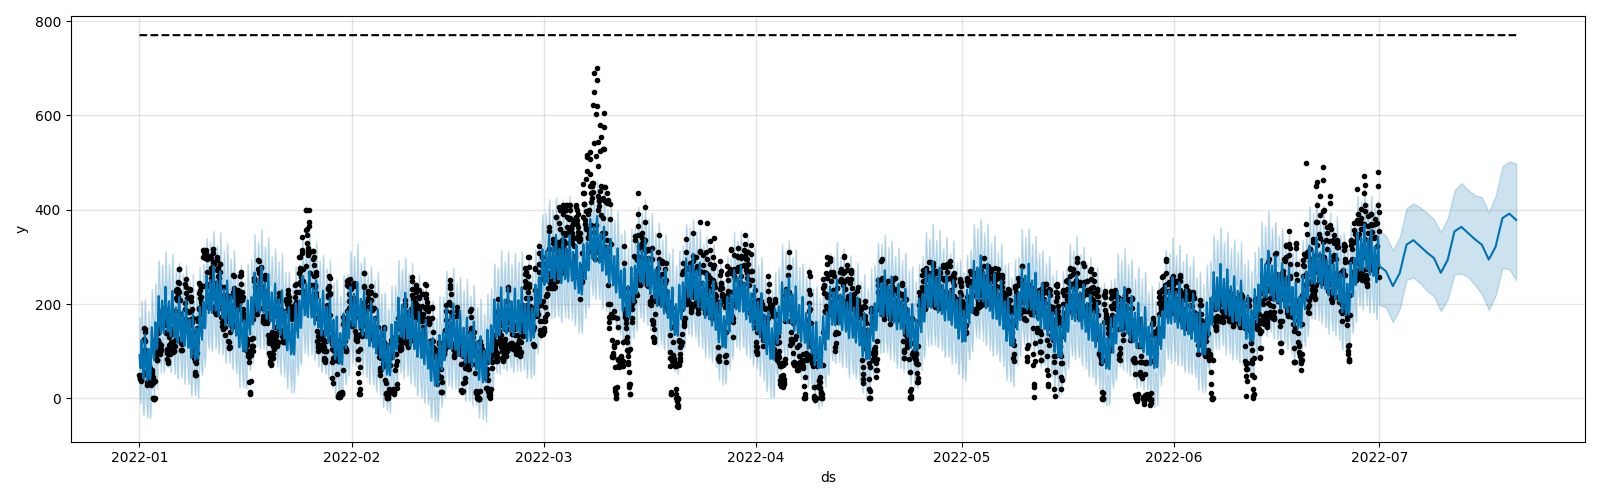
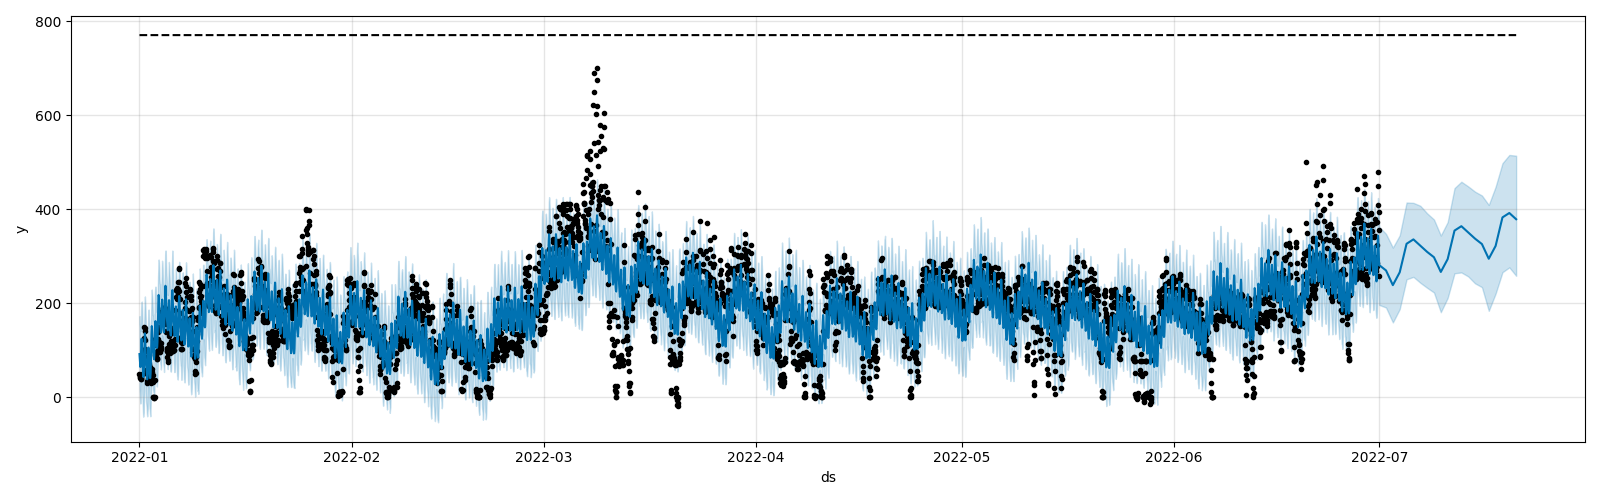
multi exper setup: hourly/daily

diff --git a/forecasting.py b/forecasting.py
@@ -8,7 +8,6 @@ import multiprocessing
 # optimize Prophet settings
 n_cores = multiprocessing.cpu_count()
 os.environ["STAN_NUM_THREADS"] = str(n_cores)
-print('CPU cores:', n_cores)
 
 import numpy as np
 import pandas as pd
@@ -21,8 +20,6 @@ from sklearn.metrics import mean_absolute_error, mean_squared_error
 # compatibility
 import prophet
 import sys
-
-
 
 
 # EDA
@@ -45,10 +42,9 @@ df_clean.ds = df_clean.ds.apply(lambda t: t[:16])
 df_clean.ds = pd.to_datetime(df_clean.ds, format= '%d.%m.%Y %H:%M') # NOTE still in CET not UTC, irrelevant for model for now
 print(df_clean.head())
 
-
 # dataset statistics (keep stats for model configuration)
 train_stats_df = df_clean.describe()
-print(train_stats_df.head())
+print(train_stats_df)
 
 # plot raw price data
 ax1 = df_clean.plot(x='ds', y='y', kind='line', figsize=(16, 5))
@@ -59,7 +55,7 @@ fig1.savefig('./plots/1_raw_prices.png')
 # ------------------------------------------------------------------
 # Validate fundamental assumptions about the dataset
 
-#### investigate varying amount of datapoints over time
+## investigate varying amount of datapoints over time
 dp_density_sr = df_clean.set_index('ds').resample('1d').count()
 
 # plot histogram of hourly (hence 24) data points per day
@@ -78,8 +74,7 @@ missing_df = df_clean.set_index('ds')\
                       .asfreq()\
                       .fillna(np.nan)
 # list missing time slot
-# missing_df[missing_df['y'].isnull()]
-assert missing_df[missing_df['y'].isnull()].empty, 'There are still data gaps in the data'
+print('Missing time slots:', missing_df[missing_df['y'].isnull()].shape[0])
 
 # interpolation missing data point from previous and next neighbors
 dense_df = df_clean.interpolate()
@@ -102,31 +97,30 @@ fig4.savefig('./plots/4_histogram_hours_per_day.png')
 # create seasonal base model
 # set prophet fit 'cap' to 100% of maximum historic price in training dataset
 df_resampled = dense_df.assign(cap=train_stats_df.loc['max', 'y'])
+df_resampled.to_csv('./df_resampled.csv')
 
+# fit model
 m = Prophet()       # mcmc_samples=300  -> NOTE different sampling strategy could increase the result quality, but at the cost of massive runtime complexity surge
 m.fit(df_resampled)
 
-df_resampled.to_csv('./df_resampled.csv')
-
-# num future intervals & max capability +10% (to consider eventual predictions beyond the training data limits up to a restricted level)
+# config prediction
+# num future intervals
 future = m.make_future_dataframe(periods=20)
+# max capability +10% (to consider eventual predictions beyond the training data limits up to a restricted level)
 future['cap'] = train_stats_df.loc['max', 'y'] * 1.1
 
-# prediction past the training dataset (no data validation, but looks logical reasonable as a base model)
+# predict
 fcst = m.predict(future)
+fcst.to_csv('./fcst.csv')
+
+# plot prediction results
 ax5 = fig = m.plot(fcst, figsize=(16, 5))
 fig5 = ax5.get_figure()
 fig5.savefig('./plots/5_predictions.png')
 
-fcst.to_csv('./fcst.csv')
-
-
-# cross validation on timeseries dataset
-df_cv = cross_validation(m, initial='7 days', period='2 hours', horizon='6 hours')              # TODO this shold be 
+##### cross validation
+df_cv = cross_validation(m, initial='120 days', period='24 hours', horizon='24 hours') 
 print(df_cv)
-# NOTE horizon should be 1 hour, but due to lack of computational power, its reduced to half the granularity
-
-
 
 # plot predictions (yhat) over true data (y)
 ax6 = df_cv.plot(x='ds', y=['y', 'yhat'], kind='line', figsize=(16, 6))
@@ -139,8 +133,6 @@ fig6.savefig('./plots/6_cross_validation.png')
 # MAE
 mae = mean_absolute_error(df_cv['y'], df_cv['yhat'])
 print(f"MAE: {mae:.2f}")
-
 # RMSE
 rmse = np.sqrt(mean_squared_error(df_cv['y'], df_cv['yhat']))
 print(f"RMSE: {rmse:.2f}")
-

diff --git a/optimization.py b/optimization.py
@@ -1,5 +1,5 @@
 '''
-Optimization utilizating forecast
+Optimization approach.
 '''
 
 import numpy as np
@@ -55,8 +55,8 @@ fcst = pd.read_csv('./fcst.csv')
 df_resampled = pd.read_csv('./df_resampled.csv')
 
 
-### NOTE Simplification to latest 500 time steps, due to limited available computation
-ts_slicing_len = 500
+### NOTE Simplification to latest 2500 time steps, in favor of faster computation
+ts_slicing_len = 2500
 
 # historic prices
 hist_opt_schedule, hist_opt_profit = get_profit(df_resampled[:ts_slicing_len])

diff --git a/README.md b/README.md
@@ -3,7 +3,7 @@
 Time series day ahead public market auction price forecasting.
 
 ### Dataset 
-Hourly electicity prices from public european energy market over a 10 month period time window.
+Hourly electicity prices from public european energy market over a 6 month period time window.
 
 Data sources: 
 - [https://www.smard.de](https://www.smard.de) (Bundesnetzagentur) 
@@ -13,7 +13,7 @@ Download as .csv file in various time resolutions.
 
 ## EDA 
 
-### Tabular columns overview
+### Tabular data annotation overview 
 Available dataset columns are named are as follows.
 
 - MTU (CET/CEST) -> Time intervals [FROM, TO] in UTC+1 timezone 
@@ -21,55 +21,73 @@ Available dataset columns are named are as follows.
 - Currency -> Price unit Euro (while constant, assumed to be irrelevant for modeling) 
 - BZN|DE-LU -> Bidding zone Germany/Luxembourg, (irrelevant for modeling) 
 
-### Time series raw data
-![Raw pricing data](./plots/1_raw_prices.png)
+---
 
-There can be density change spotted in March in the raw datas line plot.
+### Raw time series - visualization
+![Raw pricing data](./plots/0_raw_prices.png)
+<center>Y [Price in €/MWh]</center>
+
+- Assumend density pattern change in March in the raw data 
+- Large outlier in early March 
+
+
+### Raw time series - statistics
+![Raw data statistics](./plots/1_eda_stats.png)
+<center>ds: Time | y: price</center>
 
 
 ### Sampling distribution
-To investigate if there are more data points from March onwards the aggregated data point count is shown.
+
 ![hourly sampling histogram](./plots/2_histogram_hourly_distribution.png)
+<center>(Log) Price samples per day historgram</center>
 
-### Data gaps
 ![data gaps](./plots/3_gap_line.png)
-There is still a day with only 23 hours. 
+<center>Samples count per day</center>
 
-### Hourly sampling completeness
-After preprocessing and data cleansing, the gaps are interpolated and all days hourly samples are complete.
+Data verification after data cleansing, preprocessing and interpolation. 
 ![hourly distribution](./plots/4_histogram_hours_per_day.png)
+<center>Price samples per day historgram</center>
 
-## Forecasting 
-__Model setup:__
-- Initial window size: 7 days 
-- Horizon: 2 hours 
-- Period: 6 hours 
-![predictions](./plots/5_predictions.png)
+## Forecast model
+__POC parametrization__ 
+- Initial window size: 120 days $\rightarrow$ training window (the bigger the better) 
+- Horizon: 1 hours $\rightarrow$ prediction step size (how far to predict into the future) 
+- Period: 1 hours $\rightarrow$ number of prediction steps (how often to make predictions) 
+![predictions](./plots/5_predictions.png) 
+<center>Vertical axis: Y [Price in €/MWh]</center> 
 
-Figure legend: 
+Legend: 
 - Historical observations (black dots) 
 - Confidence interval (light blue band) 
 - Predictions (blue dense line) 
-- Threshold limit (dashed line) 
+- Upper threshold limit (dashed black line) 
+
+TODO adjust model parameters for improved results and day ahead predictions.
 
 ### Cross validation
-![Cross validation](./plots/6_cross_validation.png)
+Time series cross validation is used to measure the forecast error using historical data. This is done by selecting cutoff points in the history, and for each of them fitting the model using data only up to that cutoff point.  The forecasted values are compared to the actual values.
 
-__Metrics__
+![Cross validation](./plots/6_cross_validation.png) 
+<center>Prediction & observations over time [Price in €/MWh]</center>
 
-MAE: 55.70 
-
-RMSE: 74.08 
-
-__Interpretation__
-
-MAE and RSME are below the pricings standard deviation of 90.656821, which means they are reasonable, but at the same time the difference is not very big. Hence the model did derive valuable information from the data, but it can be assumed that there is quite some potential with dataset preprocessing and model selection and configuration. Also the models parameters need more adjustment.
+Legend: 
+- _y_: Ground truth
+- _yhat_: prediction
 
 
+__Evaluation metrics:__
+| Experiment   | Pred. Period | Pred. Horizon |      MAE     |     RMSE     |
+| ------------ | ------------ | ------------- | ------------ | ------------ |
+|  Next hour   |       1      |       1       |     47.66    |      61.33   |
+|  Day ahead   |       24     |       24      |     50.09    |      64.45   |
 
-# Optimization Approach
 
-Task: Buy energy cheap and store in batteries to sell at high prices.
+Metrics are below the pricings standard deviation of 90.656821, which means they are reasonable, but at the same time the difference is small. Hence the model did derive valuable information from the data, but it can be assumed that there is quite some potential left with dataset preprocessing and model selection. And most importantly the models parameters are just chosen for quick experimentation but not for optimal results for far and need more adjustment.
+
+
+## Optimization Approach
+
+__Task:__ Buy energy cheap and store in batteries to sell at high prices.
 
 ### Problem formalization 
 
@@ -84,24 +102,24 @@ Charging speed: $-1 <= c_t <= 1MWh$
 
 __Trading actions__ 
 
-$c_t > 0 → $ Charging/Buy 
+$`c_t > 0 → `$ Charging/Buy 
 
-$c_t = 0 → $ Idle/Hold 
+$`c_t = 0 → `$ Idle/Hold 
 
-$c_t < 0 → $ Discharging/Sell 
-
-
-__State update__ $ SOC_{t+1} = SOC_t + c_t$
-
-__Optimizable cost function__ $max ∑_t = price_t * c_t$
+$`c_t < 0 → `$ Discharging/Sell 
 
 
+__State update__ $`SOC_{t+1} = SOC_t + c_t`$
 
-# Approache comparison
+__Optimizable cost function__ $`max ∑_t = price_t * c_t`$
+
+
+
+<!-- ## Approach comparison
 
 Historic prices profit: 21616.323853726
 
-Predicted prices profit: <TODO fix model and recalculate>
+Predicted prices profit: <TODO fix model and recalculate> 
 
-Prediction vs historic price strategy difference: <TODO show difference>
+Prediction vs historic price strategy difference: <TODO show difference> -->
 
